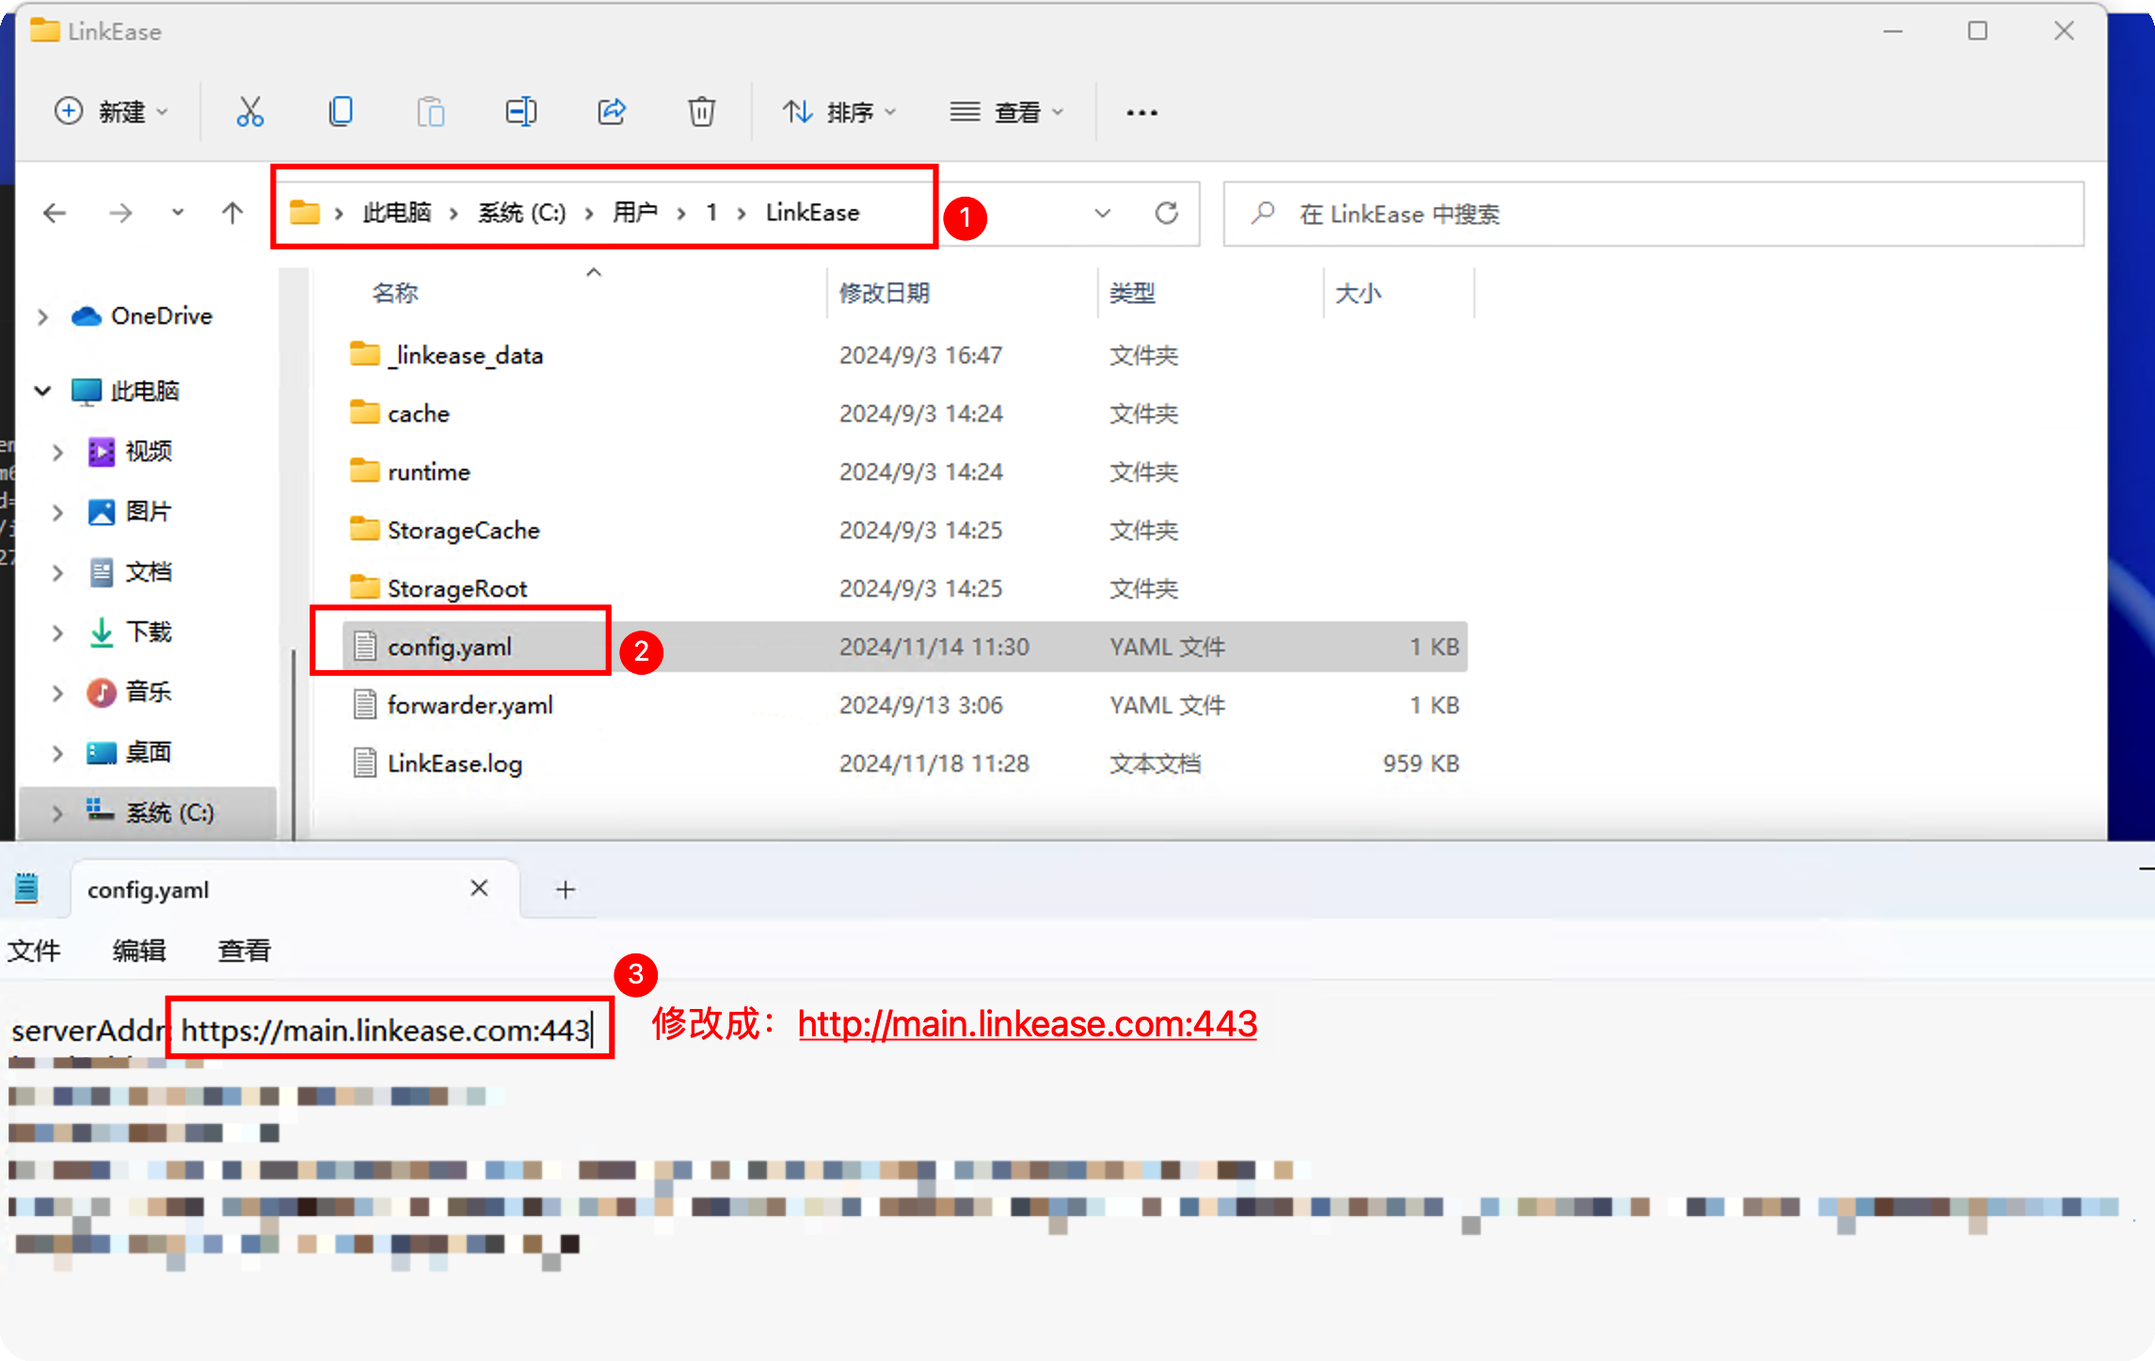
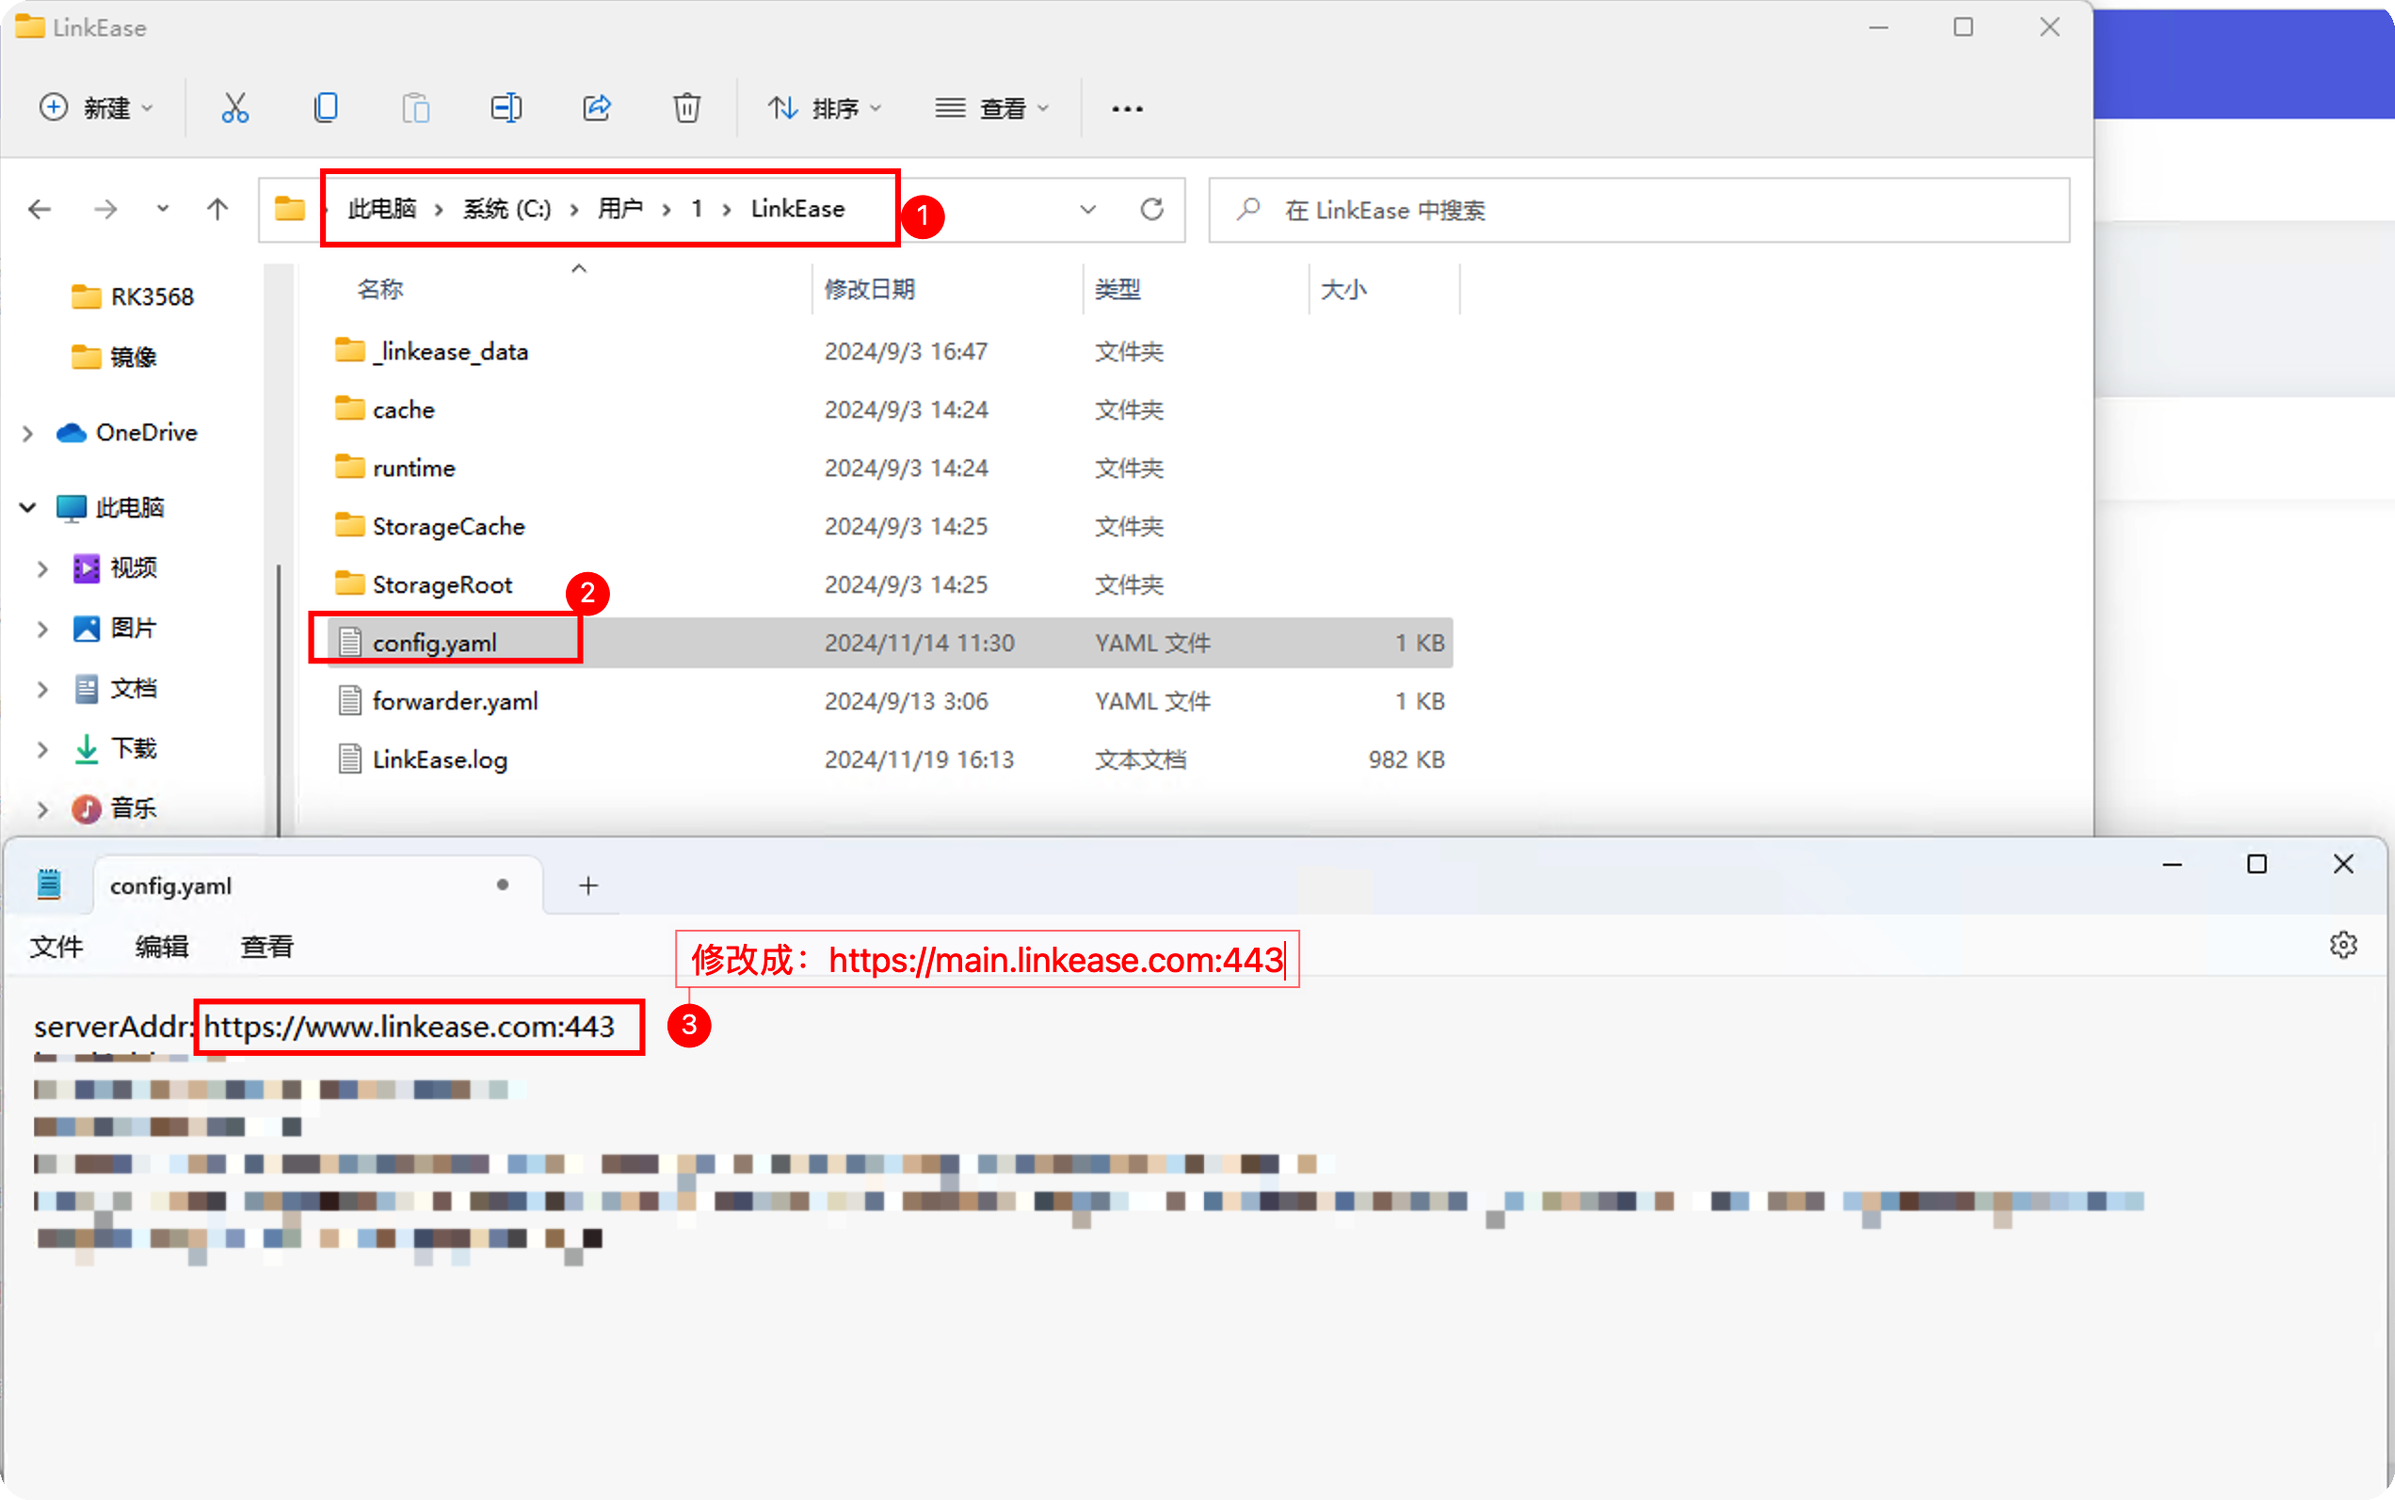
update faq 1119-3

Changed region(s): [[0.0, 0.0, 1.0, 0.9959], [0.7441, 0.5913, 0.8371, 0.6224]]

diff --git a/docs/zh/guide/linkease/feedback/notice.md b/docs/zh/guide/linkease/feedback/notice.md
@@ -1,3 +1,17 @@
+## Q：iStoreOS软件商店无法访问？
+
+1. 打开首页终端执行以下命令；
+
+```
+sh -c "$(curl -sSL http://fw.koolcenter.com/iStoreOS/alpha/fix-istore.sh)"
+```
+
+## Q：无法访问koolcenter.com下载固件？
+
+1. 下载固件可以到这里下载；
+
+https://fw.koolcenter.com/
+
 ## Q：易有云官网或者DDNSTO官网控制台无法访问？
 
 易有云和DDNSTO 域名正在备案中，请暂时使用以下域名访问官网。
@@ -21,17 +35,3 @@ macOS打开路径：/Users/【你的用户名】/LinkEase
 2. 打开配置文件，将配置文件中的serverAddr：https://www.linkease.com:443 这个改成 https://main.linkease.com:443，保存。
 
 ![image](./image/faq/servererror2.png)
-
-## Q：iStoreOS软件商店无法访问？
-
-1. 打开首页终端执行以下命令；
-
-```
-sh -c "$(curl -sSL http://fw.koolcenter.com/iStoreOS/alpha/fix-istore.sh)"
-```
-
-## Q：无法访问koolcenter.com无法下载固件？
-
-1. 下载固件可以到这里下载；
-
-https://fw.koolcenter.com/
